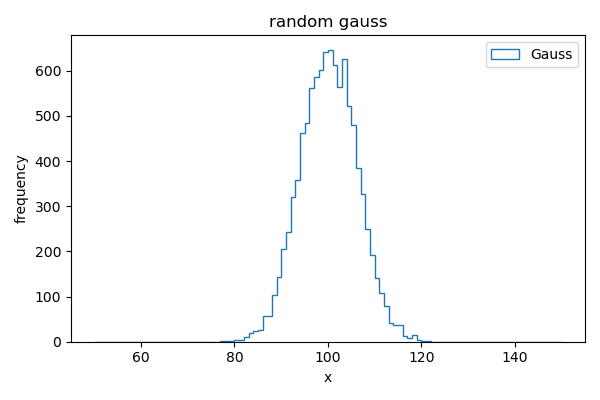
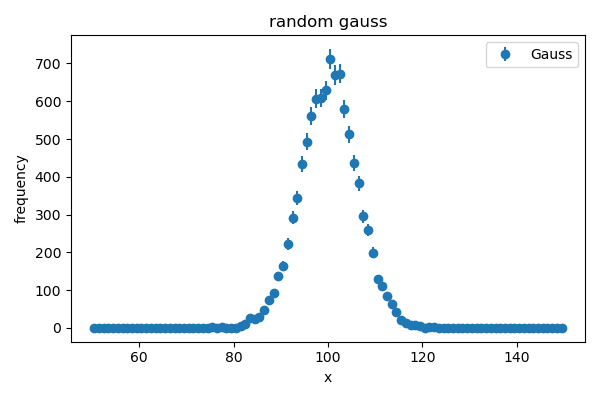
exercise 2

diff --git a/myplots.py b/myplots.py
@@ -5,36 +5,50 @@ def cpp_example_py(samples=10000):
     rng = np.random.default_rng()
     data = rng.normal(100, 6, size=samples)
 
+    # single histogram
     fig1, ax1 = plt.subplots(figsize=(6, 4))
-    ax1.hist(data, bins=100, range=(50, 150), histtype='step', label="Gauss")
+    counts, bins = np.histogram(data, bins=100, range=(50, 150))
+    bin_centers = 0.5*(bins[1:] + bins[:-1])
+    ax1.errorbar(bin_centers, counts, yerr=np.sqrt(counts), fmt='o', label="Gauss")
     ax1.set_title("random gauss")
     ax1.set_xlabel("x")
     ax1.set_ylabel("frequency")
     ax1.legend()
     fig1.tight_layout()
     fig1.savefig("canvas1_py.png")
+    
+    # 2x2 grid
+    fig2, axs = plt.subplots(2, 2, figsize=(10, 8))
 
-    fig2, axs = plt.subplots(2, 2, figsize=(8, 6))
-    axs[0, 0].hist(data, bins=100, range=(50, 150), histtype='step')
+    # original Gaussian
+    counts, bins = np.histogram(data, bins=100, range=(50, 150))
+    bin_centers = 0.5*(bins[1:] + bins[:-1])
+    axs[0, 0].errorbar(bin_centers, counts, yerr=np.sqrt(counts), fmt='o')
     axs[0, 0].set_title("Gauss;x;frequency")
 
-    data2 = np.copy(data)
-    data2 = np.concatenate([data2, rng.uniform(50, 150, size=samples // 3)])
-    axs[0, 1].hist(data2, bins=100, range=(50, 150), histtype='step')
+    # gaussian plus offset
+    data2 = np.concatenate([data, rng.uniform(50, 150, size=samples // 3)])
+    counts, bins = np.histogram(data2, bins=100, range=(50, 150))
+    bin_centers = 0.5*(bins[1:] + bins[:-1])
+    axs[0, 1].errorbar(bin_centers, counts, yerr=np.sqrt(counts), fmt='o')
     axs[0, 1].set_title("Gauss+offset")
 
+    # gaussian plus offset2
     u = rng.uniform(0, 1, size=samples * 30)
     xvals = 1 / (1 - u * (1 - 1/11.0))   # sample from 1/x^2 on [1,11]
     xvals = 10 * xvals + 40
     data3 = np.concatenate([data, xvals])
-    axs[1, 0].hist(data3, bins=100, range=(50, 150), histtype='step')
+    counts, bins = np.histogram(data3, bins=100, range=(50, 150))
+    bin_centers = 0.5*(bins[1:] + bins[:-1])
+    axs[1, 0].errorbar(bin_centers, counts, yerr=np.sqrt(counts), fmt='o')
     axs[1, 0].set_yscale("log")
     axs[1, 0].set_title("Gauss+offset2")
 
-
-    data4 = np.copy(data)
-    data4 = np.concatenate([data4, rng.normal(100, 20, size=samples // 2)])
-    axs[1, 1].hist(data4, bins=100, range=(50, 150), histtype='step')
+    # double gaussian
+    data4 = np.concatenate([data, rng.normal(100, 20, size=samples // 2)])
+    counts, bins = np.histogram(data4, bins=100, range=(50, 150))
+    bin_centers = 0.5*(bins[1:] + bins[:-1])
+    axs[1, 1].errorbar(bin_centers, counts, yerr=np.sqrt(counts), fmt='o')
     axs[1, 1].set_title("Double Gaussian")
 
     fig2.tight_layout()
@@ -43,4 +57,5 @@ def cpp_example_py(samples=10000):
 if __name__ == "__main__":
     cpp_example_py()
     print("Saved plots: canvas1_py.png and canvas2_py.pdf")
+
 
